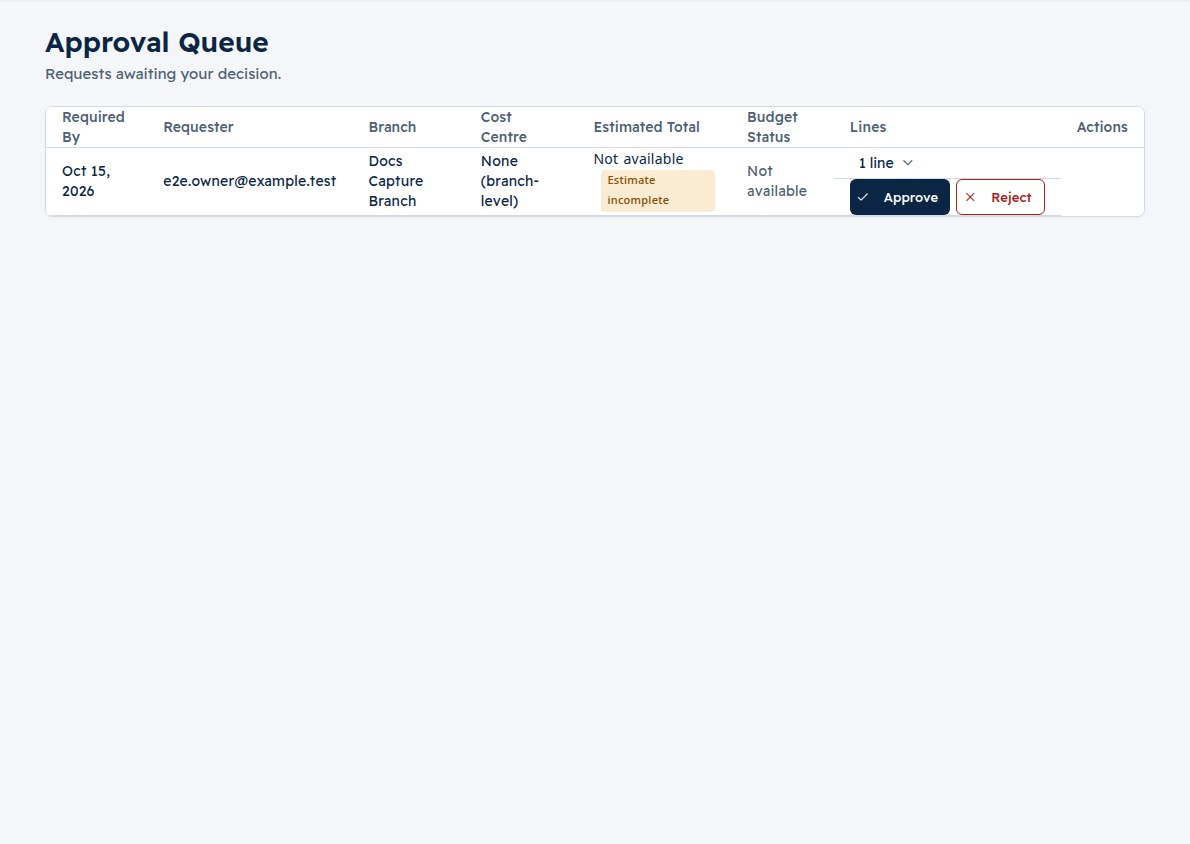
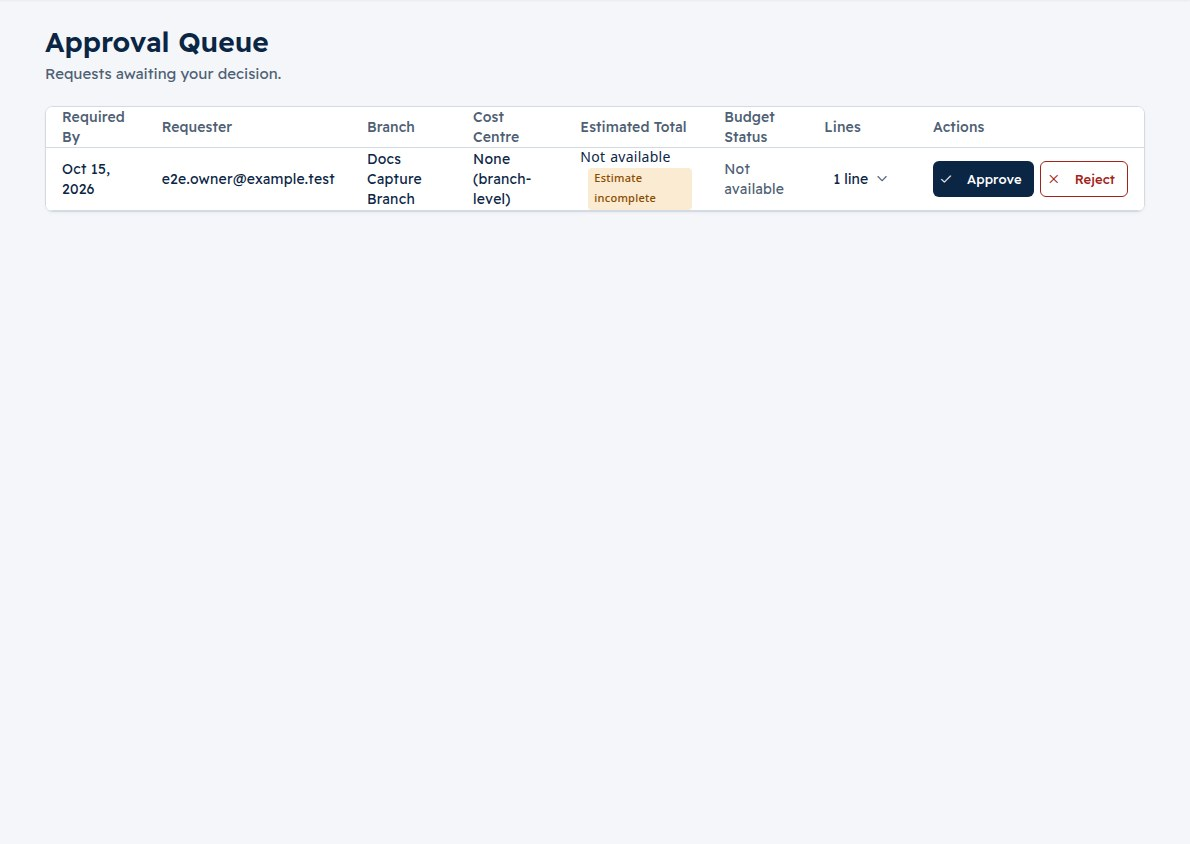
fix(web): approval queue buttons sit in the Actions column (PPS-102) (#329)
* fix(web): approval queue buttons sit in the Actions column (PPS-102)

The Lines and Actions <td>s had display: flex; a flex <td> stops being a table
cell, so Approve/Reject rendered under the Lines header and Actions stayed empty.
The cells stay table cells and a .cell-inline wrapper carries the flex layout.

* docs(user): approval queue screenshot with Approve/Reject in the Actions column (PPS-102)

CI's regenerated image for this branch (2.3 % of pixels changed).

---------

diff --git a/apps/web/src/app/features/approvals/approval-queue/approval-queue.component.html b/apps/web/src/app/features/approvals/approval-queue/approval-queue.component.html
@@ -152,15 +152,17 @@
               {{ 'approvals.columns.lines' | translate }}
             </th>
             <td mat-cell *matCellDef="let req" class="lines-cell">
-              <button
-                type="button"
-                class="lines-toggle-btn expand-lines-btn"
-                (click)="toggleExpand(req.id)"
-                [attr.aria-expanded]="isExpanded(req.id)"
-              >
-                <span class="lines-count">{{ lineCountLabel(req.lines.length) }}</span>
-                <mat-icon class="toggle-icon" aria-hidden="true">{{ isExpanded(req.id) ? 'expand_less' : 'expand_more' }}</mat-icon>
-              </button>
+              <div class="cell-inline">
+                <button
+                  type="button"
+                  class="lines-toggle-btn expand-lines-btn"
+                  (click)="toggleExpand(req.id)"
+                  [attr.aria-expanded]="isExpanded(req.id)"
+                >
+                  <span class="lines-count">{{ lineCountLabel(req.lines.length) }}</span>
+                  <mat-icon class="toggle-icon" aria-hidden="true">{{ isExpanded(req.id) ? 'expand_less' : 'expand_more' }}</mat-icon>
+                </button>
+              </div>
             </td>
           </ng-container>
 
@@ -169,27 +171,29 @@
               {{ 'approvals.columns.actions' | translate }}
             </th>
             <td mat-cell *matCellDef="let req" class="actions-cell">
-              <button
-                mat-flat-button
-                color="primary"
-                type="button"
-                class="approve-btn"
-                [disabled]="isProcessing(req.id)"
-                (click)="openDecisionDialog(req, 'approve')"
-              >
-                <mat-icon aria-hidden="true">check</mat-icon>
-                <span>{{ 'approvals.actions.approve' | translate }}</span>
-              </button>
-              <button
-                mat-stroked-button
-                type="button"
-                class="reject-btn pp-danger"
-                [disabled]="isProcessing(req.id)"
-                (click)="openDecisionDialog(req, 'reject')"
-              >
-                <mat-icon aria-hidden="true">close</mat-icon>
-                <span>{{ 'approvals.actions.reject' | translate }}</span>
-              </button>
+              <div class="cell-inline">
+                <button
+                  mat-flat-button
+                  color="primary"
+                  type="button"
+                  class="approve-btn"
+                  [disabled]="isProcessing(req.id)"
+                  (click)="openDecisionDialog(req, 'approve')"
+                >
+                  <mat-icon aria-hidden="true">check</mat-icon>
+                  <span>{{ 'approvals.actions.approve' | translate }}</span>
+                </button>
+                <button
+                  mat-stroked-button
+                  type="button"
+                  class="reject-btn pp-danger"
+                  [disabled]="isProcessing(req.id)"
+                  (click)="openDecisionDialog(req, 'reject')"
+                >
+                  <mat-icon aria-hidden="true">close</mat-icon>
+                  <span>{{ 'approvals.actions.reject' | translate }}</span>
+                </button>
+              </div>
             </td>
           </ng-container>
 

diff --git a/apps/web/src/app/features/approvals/approval-queue/approval-queue.component.spec.ts b/apps/web/src/app/features/approvals/approval-queue/approval-queue.component.spec.ts
@@ -700,15 +700,25 @@ describe('ApprovalQueueComponent', () => {
 
   it('renders approve and reject buttons inside the actions cell and lines toggle in lines cell', () => {
     const compiled = fixture.nativeElement as HTMLElement;
-    const actionsCell = compiled.querySelector('td.mat-column-actions');
+    const actionsCell = compiled.querySelector('td.mat-column-actions') as HTMLTableCellElement | null;
     expect(actionsCell).not.toBeNull();
     expect(actionsCell?.querySelector('.approve-btn')).not.toBeNull();
     expect(actionsCell?.querySelector('.reject-btn')).not.toBeNull();
 
-    const linesCell = compiled.querySelector('td.mat-column-lines');
+    const linesCell = compiled.querySelector('td.mat-column-lines') as HTMLTableCellElement | null;
     expect(linesCell).not.toBeNull();
     expect(linesCell?.querySelector('.approve-btn')).toBeNull();
     expect(linesCell?.querySelector('.reject-btn')).toBeNull();
+
+    const approveBtn = compiled.querySelector('.approve-btn') as HTMLButtonElement | null;
+    expect(approveBtn).not.toBeNull();
+    expect(approveBtn?.closest('td')).toBe(actionsCell);
+    expect(approveBtn?.closest('td')).not.toBe(linesCell);
+
+    if (linesCell && actionsCell) {
+      expect(getComputedStyle(linesCell).display).toBe('table-cell');
+      expect(getComputedStyle(actionsCell).display).toBe('table-cell');
+    }
   });
 
   it('makes the whole N lines control one clickable button without tooltip whose accessible name contains visible text and flips aria-expanded', () => {

diff --git a/apps/web/src/app/features/approvals/approval-queue/approval-queue.component.scss b/apps/web/src/app/features/approvals/approval-queue/approval-queue.component.scss
@@ -218,6 +218,10 @@ td.date-cell {
 
 .lines-cell,
 .actions-cell {
+  white-space: nowrap;
+}
+
+.cell-inline {
   display: flex;
   align-items: center;
   gap: 0.375rem;
